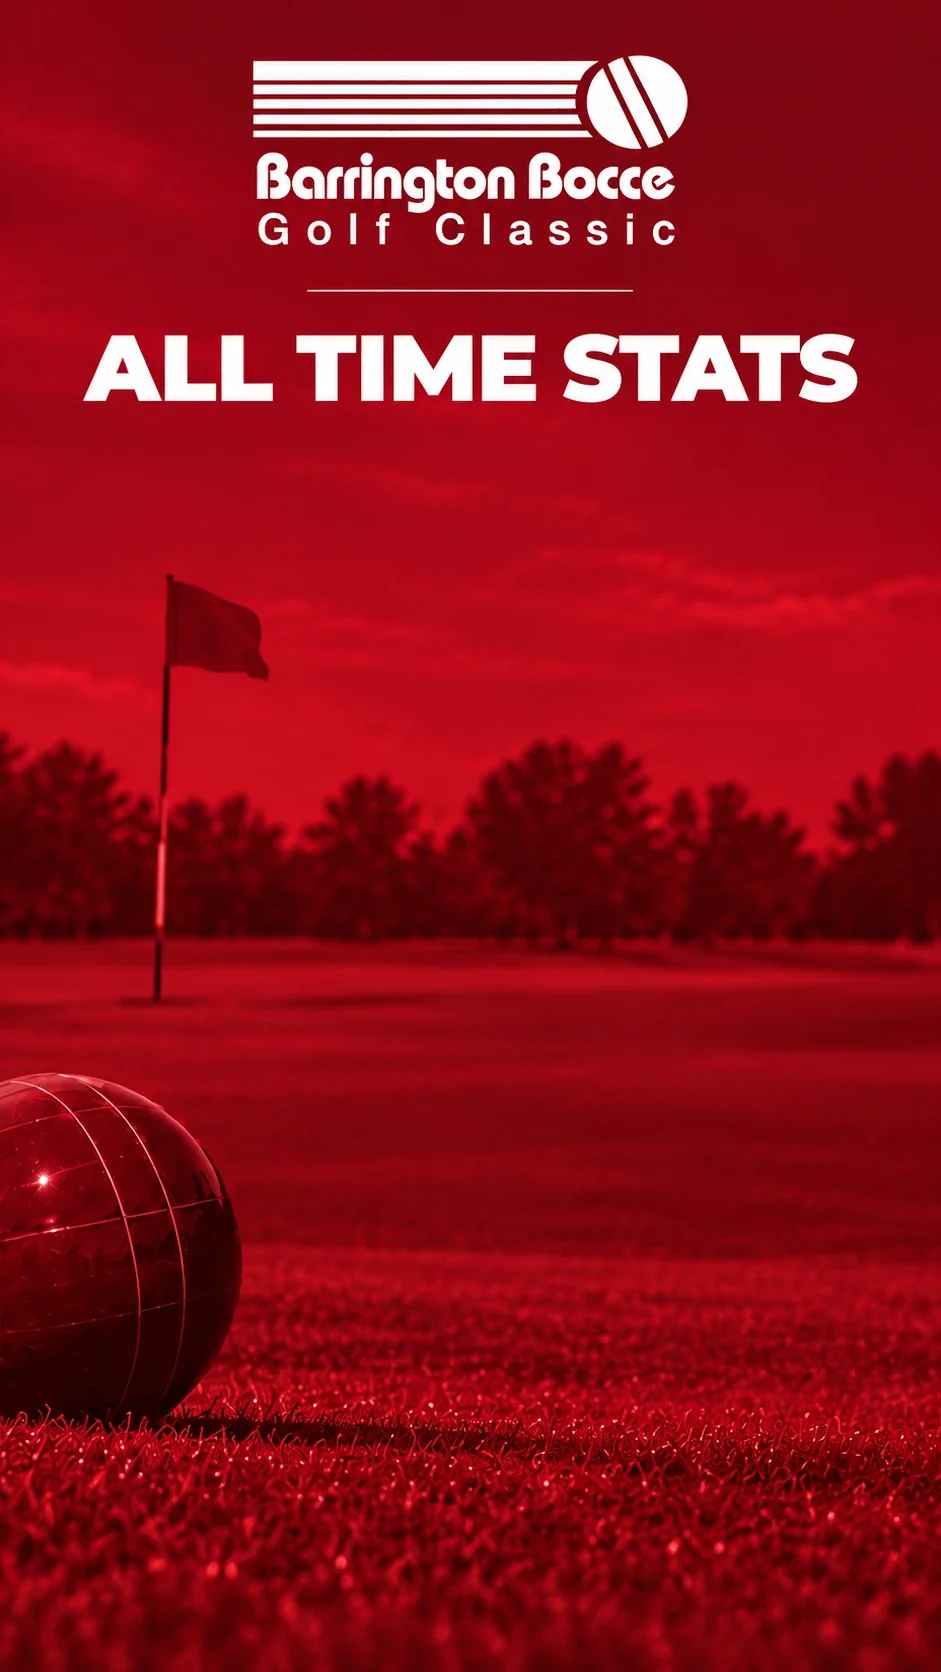
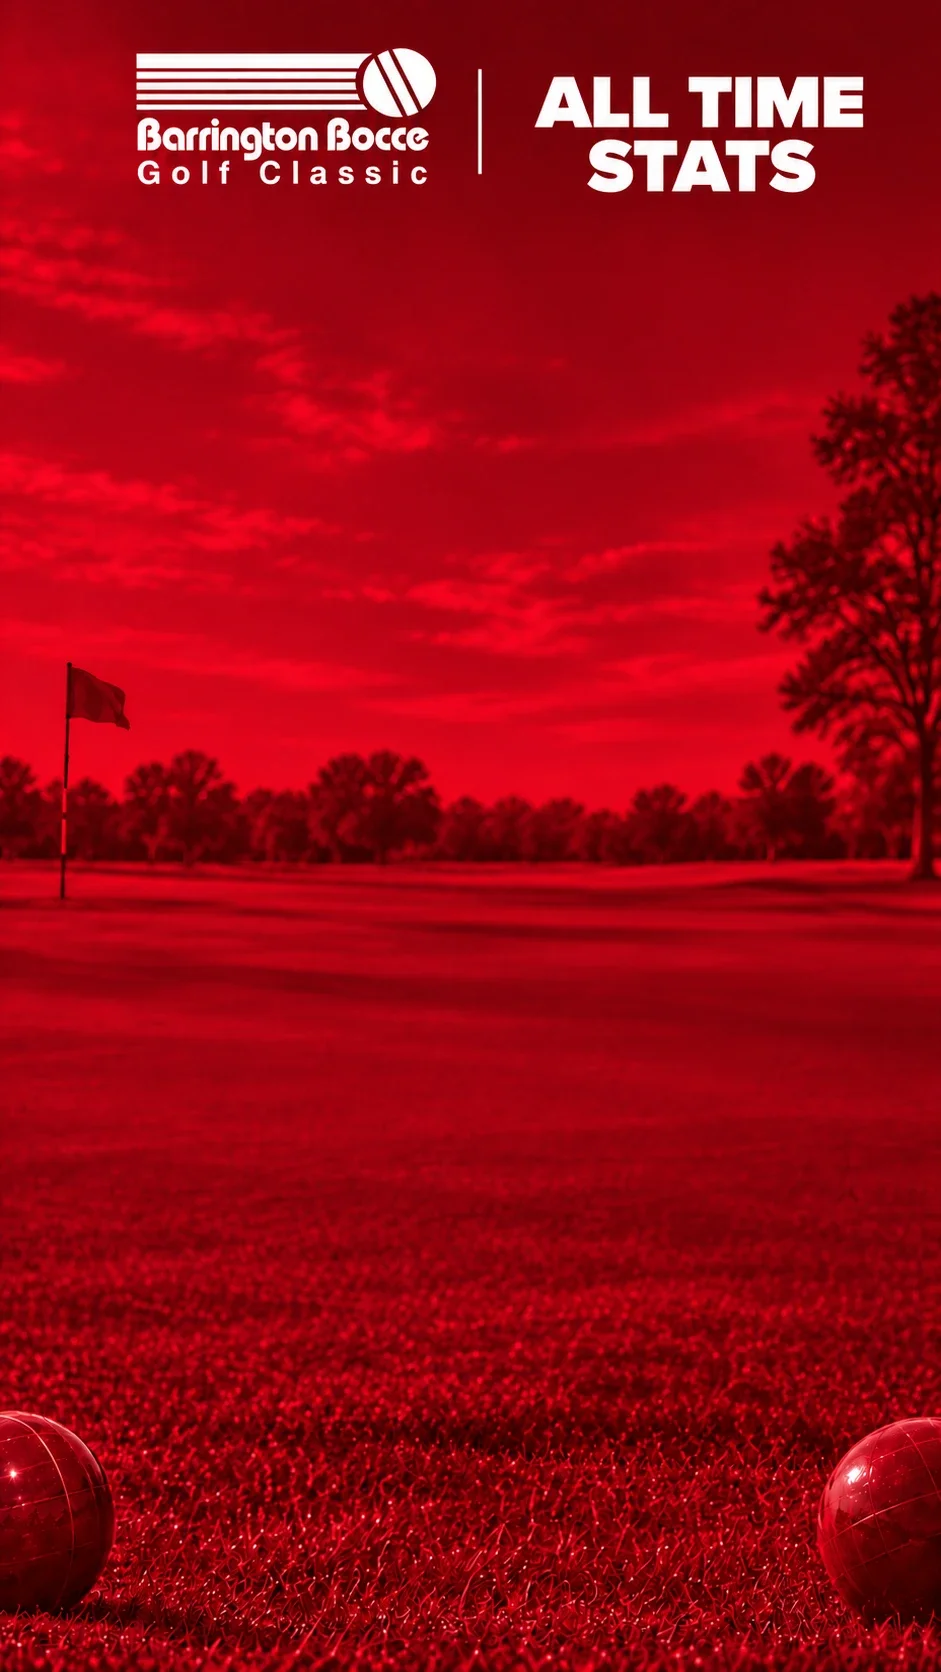
New knockout and all-time portrait art; drop the stats-specific mobile overrides

diff --git a/site/src/index.css b/site/src/index.css
@@ -226,13 +226,8 @@ button { font: inherit; cursor: pointer; }
 .mobile { min-height: 100vh; padding: 0 12px 70px; }
 .mobile .ticker { position: fixed; left: 0; right: 0; bottom: 0; height: 40px; line-height: 38px; font-size: 15px; z-index: 5; }
 .mobile-bg { position: fixed; inset: 0; z-index: -1; background: var(--red) center top / cover no-repeat; }
-/* Each portrait image has its title baked in at a different height; push the
-   menu below whichever one is showing. Values are rows of the 941x1672 art. */
+/* All three portrait images bake their title into the top ~11.5%; keep content below it. */
 .mobile .menu { padding-top: calc(max(100vw / 941, 100vh / 1672) * 200 + 8px); flex-wrap: wrap; gap: 8px; }
-.mobile.tab-stats .menu { padding-top: calc(100vw / 941 * 420 + 10px); }
-/* This title is wider than the others, so scale the art to the screen width
-   rather than cropping its edges off; the sampled colour continues below it. */
-.mobile.tab-stats .mobile-bg { background-size: 100% auto; background-color: #6b0208; }
 .mobile .menu button { font-size: 13px; padding: 8px 14px; }
 .mobile .menu select.year { font-size: 13px; padding: 8px 34px 8px 14px; background-position: right 12px center; }
 .mobile .pools { grid-template-columns: 1fr; gap: 16px; margin-top: 16px; }
